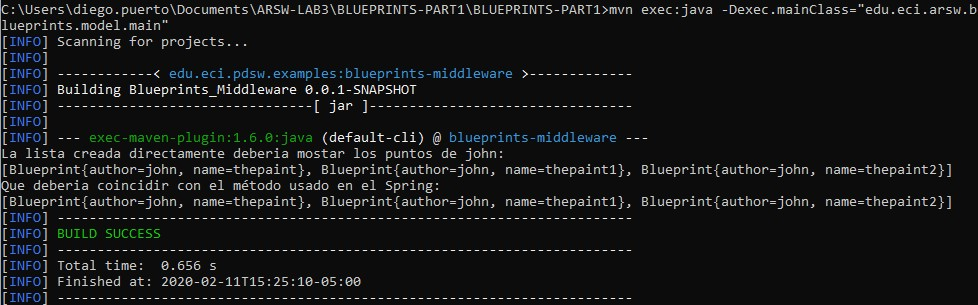
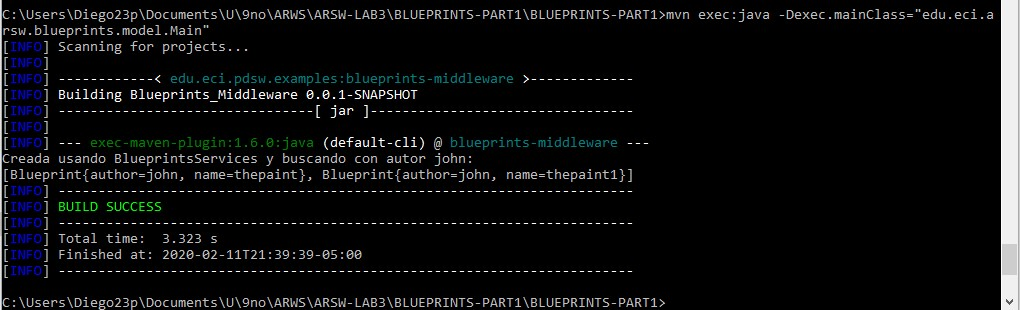
RedundancyFiltering

Changed region(s): [[0.0, 0.0, 1.0, 1.0]]

diff --git a/BLUEPRINTS-PART1/BLUEPRINTS-PART1/src/test/java/edu/eci/arsw/blueprints/test/persistence/impl/InMemoryPersistenceTest.java b/BLUEPRINTS-PART1/BLUEPRINTS-PART1/src/test/java/edu/eci/arsw/blueprints/test/persistence/impl/InMemoryPersistenceTest.java
@@ -10,11 +10,16 @@ import edu.eci.arsw.blueprints.model.Point;
 import edu.eci.arsw.blueprints.persistence.BlueprintNotFoundException;
 import edu.eci.arsw.blueprints.persistence.BlueprintPersistenceException;
 import edu.eci.arsw.blueprints.persistence.impl.InMemoryBlueprintPersistence;
+import edu.eci.arsw.blueprints.services.BlueprintsServices;
+
 import java.util.HashSet;
 import java.util.Set;
 import java.util.logging.Level;
 import java.util.logging.Logger;
 import org.junit.Test;
+import org.springframework.context.ApplicationContext;
+import org.springframework.context.support.ClassPathXmlApplicationContext;
+
 import static org.junit.Assert.*;
 
 /**
@@ -80,48 +85,60 @@ public class InMemoryPersistenceTest {
     
     @Test
     public void getBlueprintTest() throws BlueprintNotFoundException {
-        InMemoryBlueprintPersistence ibpp=new InMemoryBlueprintPersistence();
+    	//crea usando BlueprintsServices
+    	ApplicationContext ac = new ClassPathXmlApplicationContext("applicationContext.xml");
+    	BlueprintsServices Sibpp = ac.getBean(BlueprintsServices.class);
+    	
+    	//crea usando InMemoryBlueprintPersistence directamente
+    	InMemoryBlueprintPersistence ibpp=new InMemoryBlueprintPersistence();
         
         Point[] pts=new Point[]{new Point(0, 0),new Point(10, 10)};
         Blueprint bp=new Blueprint("john", "thepaint",pts);
         
         try {
+        	//añade usando BlueprintsServices
+            Sibpp.addNewBlueprint(bp);
+            //añade usando InMemoryBlueprintPersistence directamente
             ibpp.saveBlueprint(bp);
         } catch (BlueprintPersistenceException ex) {
             fail("Blueprint persistence failed inserting the first blueprint.");
         }
         
-        assertEquals(ibpp.getBlueprint("john", "thepaint"),bp);
+        assertEquals(Sibpp.getBlueprint("john", "thepaint"),ibpp.getBlueprint("john", "thepaint"));
         
     }
     
-    
     @Test
     public void getBlueprintsByAuthorTest() throws BlueprintNotFoundException {
-        Set<Blueprint> lista = new HashSet<Blueprint>();
+    	//crea usando BlueprintsServices
+    	ApplicationContext ac = new ClassPathXmlApplicationContext("applicationContext.xml");
+    	BlueprintsServices Sibpp = ac.getBean(BlueprintsServices.class);
+    	
+    	//crea usando InMemoryBlueprintPersistence directamente
+    	InMemoryBlueprintPersistence ibpp=new InMemoryBlueprintPersistence();
         
-        InMemoryBlueprintPersistence ibpp=new InMemoryBlueprintPersistence();
         Point[] pts=new Point[]{new Point(0, 0),new Point(10, 10)};
-        Point[] pts1=new Point[]{new Point(30, 30),new Point(40, 40)};
-        Point[] pts2=new Point[]{new Point(50, 50),new Point(60, 60)};
-        
         Blueprint bp=new Blueprint("john", "thepaint",pts);
-        Blueprint bp1=new Blueprint("john", "thepaint1",pts1);
-        Blueprint bp2=new Blueprint("john", "thepaint2",pts2);
+        Point[] pts1=new Point[]{new Point(0, 0),new Point(10, 10)};
+        Blueprint bp1=new Blueprint("sam", "pintura1",pts1);
+        Point[] pts2=new Point[]{new Point(0, 0),new Point(10, 10)};
+        Blueprint bp2=new Blueprint("sam", "pintura2",pts2);
         
         try {
+        	//añade usando BlueprintsServices
+            Sibpp.addNewBlueprint(bp);
+            Sibpp.addNewBlueprint(bp1);
+            Sibpp.addNewBlueprint(bp2);
+            //añade usando InMemoryBlueprintPersistence directamente
             ibpp.saveBlueprint(bp);
             ibpp.saveBlueprint(bp1);
             ibpp.saveBlueprint(bp2);
-            lista.add(bp);
-            lista.add(bp1);
-            lista.add(bp2);
-            
         } catch (BlueprintPersistenceException ex) {
             fail("Blueprint persistence failed inserting the first blueprint.");
         }
         
-        assertEquals(ibpp.getBlueprintsByAuthor("john"),lista);
+        assertEquals(Sibpp.getBlueprintsByAuthor("john"),ibpp.getBlueprintsByAuthor("john"));
+        assertEquals(Sibpp.getBlueprintsByAuthor("sam"),ibpp.getBlueprintsByAuthor("sam"));
                 
     }
 

diff --git a/BLUEPRINTS-PART1/BLUEPRINTS-PART1/src/main/java/edu/eci/arsw/blueprints/model/Main.java b/BLUEPRINTS-PART1/BLUEPRINTS-PART1/src/main/java/edu/eci/arsw/blueprints/model/Main.java
@@ -9,8 +9,13 @@ import edu.eci.arsw.blueprints.persistence.BlueprintNotFoundException;
 import edu.eci.arsw.blueprints.persistence.BlueprintPersistenceException;
 import edu.eci.arsw.blueprints.persistence.impl.InMemoryBlueprintPersistence;
 import edu.eci.arsw.blueprints.services.BlueprintsServices;
+
 import java.util.HashSet;
 import java.util.Set;
+
+import org.springframework.context.ApplicationContext;
+import org.springframework.context.support.ClassPathXmlApplicationContext;
+
 import static org.junit.Assert.assertEquals;
 import static org.junit.Assert.fail;
 
@@ -21,53 +26,58 @@ import static org.junit.Assert.fail;
 public class Main {
 
     public static void main(String a[]) throws BlueprintNotFoundException {
-        Set<Blueprint> lista = new HashSet<Blueprint>();
-        
-        InMemoryBlueprintPersistence ibpp=new InMemoryBlueprintPersistence();
+    	ApplicationContext ac = new ClassPathXmlApplicationContext("applicationContext.xml");
+    	BlueprintsServices BS = ac.getBean(BlueprintsServices.class);
+        /*
         Point[] pts=new Point[]{new Point(0, 0),new Point(10, 10)};
         Point[] pts1=new Point[]{new Point(30, 30),new Point(40, 40)};
         Point[] pts2=new Point[]{new Point(50, 50),new Point(60, 60)};
         
         Blueprint bp=new Blueprint("john", "thepaint",pts);
         Blueprint bp1=new Blueprint("john", "thepaint1",pts1);
-        Blueprint bp2=new Blueprint("john", "thepaint2",pts2);
+        Blueprint bp2=new Blueprint("David", "thepaint2",pts2);
         
         try {
-            ibpp.saveBlueprint(bp);
-            ibpp.saveBlueprint(bp1);
-            ibpp.saveBlueprint(bp2);
-            lista.add(bp);
-            lista.add(bp1);
-            lista.add(bp2);
+        	BS.addNewBlueprint(bp);
+        	BS.addNewBlueprint(bp1);
+        	BS.addNewBlueprint(bp2);
             
         } catch (BlueprintPersistenceException ex) {
             fail("Blueprint persistence failed inserting the first blueprint.");
         }
         
-        System.out.println("La lista creada directamente deberia mostar los puntos de john:");
-        System.out.println(ibpp.getBlueprintsByAuthor("john") + " ");
-        System.out.println("Que deberia coincidir con el método usado en el Spring:");
-        System.out.println(lista + " ");
-        /*
-        BlueprintsServices ibpp=new BlueprintsServices();
+        System.out.println("Creada usando BlueprintsServices y buscando con autor john:");
+        System.out.println(BS.getBlueprintsByAuthor("john") + " ");
+        */
         
-        Point[] pts=new Point[]{new Point(0, 0),new Point(10, 10)};
-        Point[] pts1=new Point[]{new Point(30, 30),new Point(40, 40)};
+        
+        
+        Point[] pts=new Point[]{new Point(0, 0),new Point(10, 10),new Point(10, 10), new Point(10, 10),new Point(10, 15)};
+        //Point[] pts1=new Point[]{new Point(30, 30),new Point(40, 40)};
         
         Blueprint bp=new Blueprint("john", "thepaint",pts);
-        Blueprint bp1=new Blueprint("john", "thepaint1",pts1);
+        //Blueprint bp1=new Blueprint("sam", "thepaint1",pts1);
         
         try {
-            ibpp.addNewBlueprint(bp);
-            ibpp.addNewBlueprint(bp1);
+            BS.addNewBlueprint(bp);
+            //BS.addNewBlueprint(bp1);
   
         } catch (BlueprintPersistenceException ex) {
             fail("Blueprint persistence failed inserting the first blueprint.");
         }
+        for (Blueprint B : BS.getAllBlueprints()) {
+        	for (Point P : B.getPoints()) {
+        		System.out.println("(" + P.getX() + "-" + P.getY() + ")");
+        	}
+        }
+        System.out.println("Despues de filtrar:");
+        BS.filtrar();
         
-        //ibpp.filtrar();
-        
-        System.out.println(ibpp.getAllBlueprints() + " ");*/
+        for (Blueprint B : BS.getAllBlueprints()) {
+        	for (Point P : B.getPoints()) {
+        		System.out.println("(" + P.getX() + "-" + P.getY() + ")");
+        	}
+        }
     }
 
 }

diff --git a/BLUEPRINTS-PART1/BLUEPRINTS-PART1/src/main/java/edu/eci/arsw/blueprints/persistence/impl/RedundancyFiltering.java b/BLUEPRINTS-PART1/BLUEPRINTS-PART1/src/main/java/edu/eci/arsw/blueprints/persistence/impl/RedundancyFiltering.java
@@ -8,6 +8,9 @@ package edu.eci.arsw.blueprints.persistence.impl;
 import edu.eci.arsw.blueprints.model.Blueprint;
 import edu.eci.arsw.blueprints.model.Point;
 import edu.eci.arsw.blueprints.persistence.filtering;
+
+import java.util.ArrayList;
+import java.util.List;
 import java.util.Set;
 import org.springframework.stereotype.Service;
 
@@ -21,17 +24,27 @@ public class RedundancyFiltering implements filtering{
     @Override
     public Set<Blueprint> filtrar(Set<Blueprint> mapa) {
         for (Blueprint BP : mapa){
+        	List<Point> P = new ArrayList<Point>();
             int j = 0;
-            while (j < (BP.getPoints().size()-1)){
-                if ((BP.getPoints().get(j).getX()==BP.getPoints().get(j+1).getX()) &&  (BP.getPoints().get(j).getY()==BP.getPoints().get(j+1).getY())){
-                    BP.getPoints().remove(j+1);
+            while (j < (BP.getPoints().size())){
+            	if (j==0) {
+            		P.add(BP.getPoints().get(j));
+            		j++;
+            	}
+            	else if ((BP.getPoints().get(j).getX()==P.get(P.size()-1).getX()) &&  (BP.getPoints().get(j).getY()==P.get(P.size()-1).getY())){
+                    j++;
                 }
-                else j++;
+                else {
+                	P.add(BP.getPoints().get(j));
+                	j++;
+                }
+            }
+            BP.removeAllPoints();
+            for (Point po : P) {
+            	BP.addPoint(po);
             }
         }
         return mapa;
     }
-    
-    
     
 }

diff --git a/BLUEPRINTS-PART1/BLUEPRINTS-PART1/src/main/java/edu/eci/arsw/blueprints/model/Blueprint.java b/BLUEPRINTS-PART1/BLUEPRINTS-PART1/src/main/java/edu/eci/arsw/blueprints/model/Blueprint.java
@@ -45,6 +45,10 @@ public class Blueprint {
     public void addPoint(Point p){
         this.points.add(p);
     }
+    
+    public void removeAllPoints(){
+    	points=new ArrayList<>();
+    }
 
     @Override
     public String toString() {

diff --git a/BLUEPRINTS-PART1/README.md b/BLUEPRINTS-PART1/README.md
@@ -42,5 +42,14 @@ The above requires:
 
 3. You want the plan query operations to perform a filtering process, before returning the planes consulted. These filters are looking to reduce the size of the plans, removing redundant data or simply sub-sampling, before returning them. Adjust the application (adding the abstractions and implementations you consider) so that the BlueprintServices class is injected with one of two possible 'filters' (or possible future filters). The use of more than one at a time is not contemplated:
     1. (A) Redundancy filtering: deletes consecutive points from the plane that are repeated.
+
+	Código de RedundancyFiltering:
+
+	![](BLUEPRINTS-PART1/img/8.jpg)
+
+	Se evidencia que se eliminan todos los puntos repetidos despues de filtrar:
+
+	![](BLUEPRINTS-PART1/img/9.jpg)
+
     2. (B) Subsampling filtering: suppresses 1 out of every 2 points in the plane, interspersed. 
 4. Add the corresponding tests to each of these filters, and test its operation in the test program, verifying that only by changing the position of the annotations - without changing anything else - the program returns the filtered planes in the way (A) or in the way (B).
